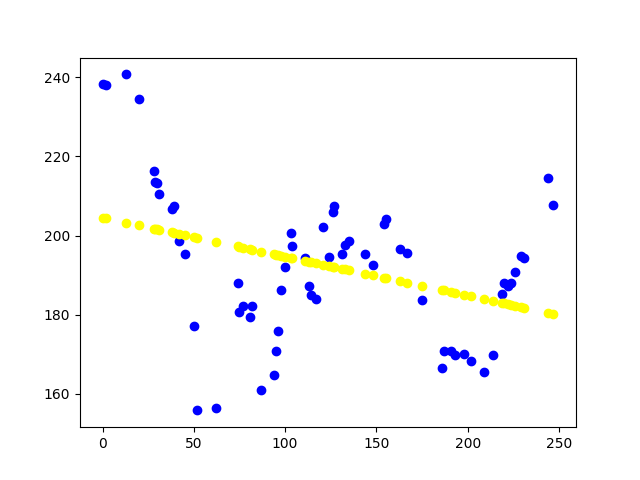
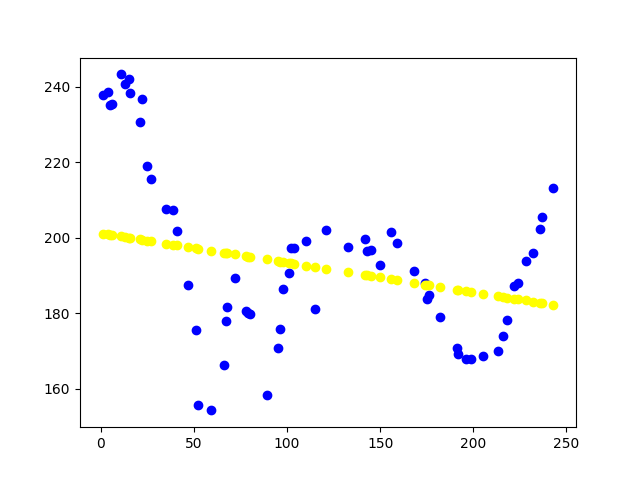
added

diff --git a/market.py b/market.py
@@ -1,6 +1,14 @@
 import pandas as p
 import numpy as n
 import matplotlib.pyplot as plt
+from sklearn.model_selection import train_test_split
+from sklearn.linear_model import LinearRegression
+from sklearn.preprocessing import PolynomialFeatures
+from sklearn.svm import SVR
+from sklearn.preprocessing import StandardScaler
+from sklearn.tree import DecisionTreeRegressor
+from sklearn.ensemble import RandomForestRegressor
+from sklearn.metrics import r2_score
 
 df = p.read_csv("ITC_stock.csv")
 
@@ -9,62 +17,43 @@ df.drop(df[df["Open"]=="-"].index,inplace=True)
 x = n.array(range(0,len(df["Price"])))
 y = df["Price"].values
 
-"""#Plotting Data"""
-
+#Plotting Data
 plt.plot(x,y)
 plt.xlabel("Date")
 plt.ylabel("Price")
 plt.xticks(range(0,len(df["Price"]),20))
 plt.savefig("images/Orginal.png")
 
-"""#Train and Test Data"""
-
+#Train and Test Data
 x = x.reshape((len(y),1))
 y = y.reshape((len(y),1))
-
-from sklearn.model_selection import train_test_split
-
 x_train,x_test,y_train,y_test = train_test_split(x,y,test_size=0.25)
 
-"""#Linear Regression"""
-
-from sklearn.linear_model import LinearRegression
+#Linear Regression
 linear = LinearRegression()
-
 linear.fit(x_train,y_train)
-
 pred = linear.predict(x_test)
 plt.clf()
 plt.scatter(x_test,y_test,color="blue")
 plt.scatter(x_test,pred,color="yellow")
 plt.savefig("images/Linear.png")
+linearAcc = r2_score(y_test,pred)*100
 
-"""# Polynomial"""
-
-from sklearn.preprocessing import PolynomialFeatures
-
+# Polynomial
 poly = PolynomialFeatures(degree=7)
-
 xPolyTrain = poly.fit_transform(x_train)
 xpolyTest = poly.fit_transform(x_test)
-
 linearPloy = LinearRegression()
-
 linearPloy.fit(xPolyTrain,y_train)
-
 pred = linearPloy.predict(xpolyTest)
 plt.clf()
 plt.scatter(x_test,y_test,color="blue")
 plt.scatter(x_test,pred,color="yellow")
 plt.savefig("images/polynomial.png")
+polyAcc = r2_score(y_test,pred)*100
 
-"""# Support Vector Machine"""
-
-from sklearn.svm import SVR
+# Support Vector Machine
 svr = SVR()
-
-from sklearn.preprocessing import StandardScaler
-
 x_stand = StandardScaler()
 y_stand = StandardScaler()
 xTrain = x_stand.fit_transform(x_train)
@@ -73,34 +62,37 @@ xTest = x_stand.fit_transform(x_test)
 yTest = y_stand.fit_transform(y_test)
 
 svr.fit(xTrain,yTrain)
-
 pred = svr.predict(xTest)
 plt.clf()
 plt.scatter(x_stand.inverse_transform(xTest),y_stand.inverse_transform(yTest),color="blue")
 plt.scatter(x_stand.inverse_transform(xTest),y_stand.inverse_transform(pred),color="yellow")
 plt.savefig("images/svr.png")
+svrAcc = r2_score(y_test,y_stand.inverse_transform(pred))*100
 
-"""#Decison Tree Regression"""
-
-from sklearn.tree import DecisionTreeRegressor
+#Decison Tree Regression
 dis = DecisionTreeRegressor()
-
 dis.fit(x_train,y_train)
 pred = dis.predict(x_test)
 plt.clf()
 plt.scatter(x_test,y_test,color="blue")
 plt.scatter(x_test,pred,color="yellow")
 plt.savefig("images/decision.png")
+decAcc = r2_score(y_test,pred)*100
 
-"""# Random Forest"""
 
-from sklearn.ensemble import RandomForestRegressor
+# Random Forest"
 rand = RandomForestRegressor()
-
 rand.fit(x_train,y_train)
 pred = rand.predict(x_test)
 plt.clf()
 plt.scatter(x_test,y_test,color="blue")
 plt.scatter(x_test,pred,color="yellow")
 plt.savefig("images/random.png")
+randomAcc = r2_score(y_test,pred)*100
+
+print(f"Linear Regression        :   {round(linearAcc,3)}")
+print(f"Polynomial Regression    :   {round(polyAcc,3)}")
+print(f"Support Vector Machine   :   {round(svrAcc,3)}")
+print(f"Decision Tree Regression :   {round(decAcc,3)}")
+print(f"Random Forest            :   {round(randomAcc,3)}")
 
